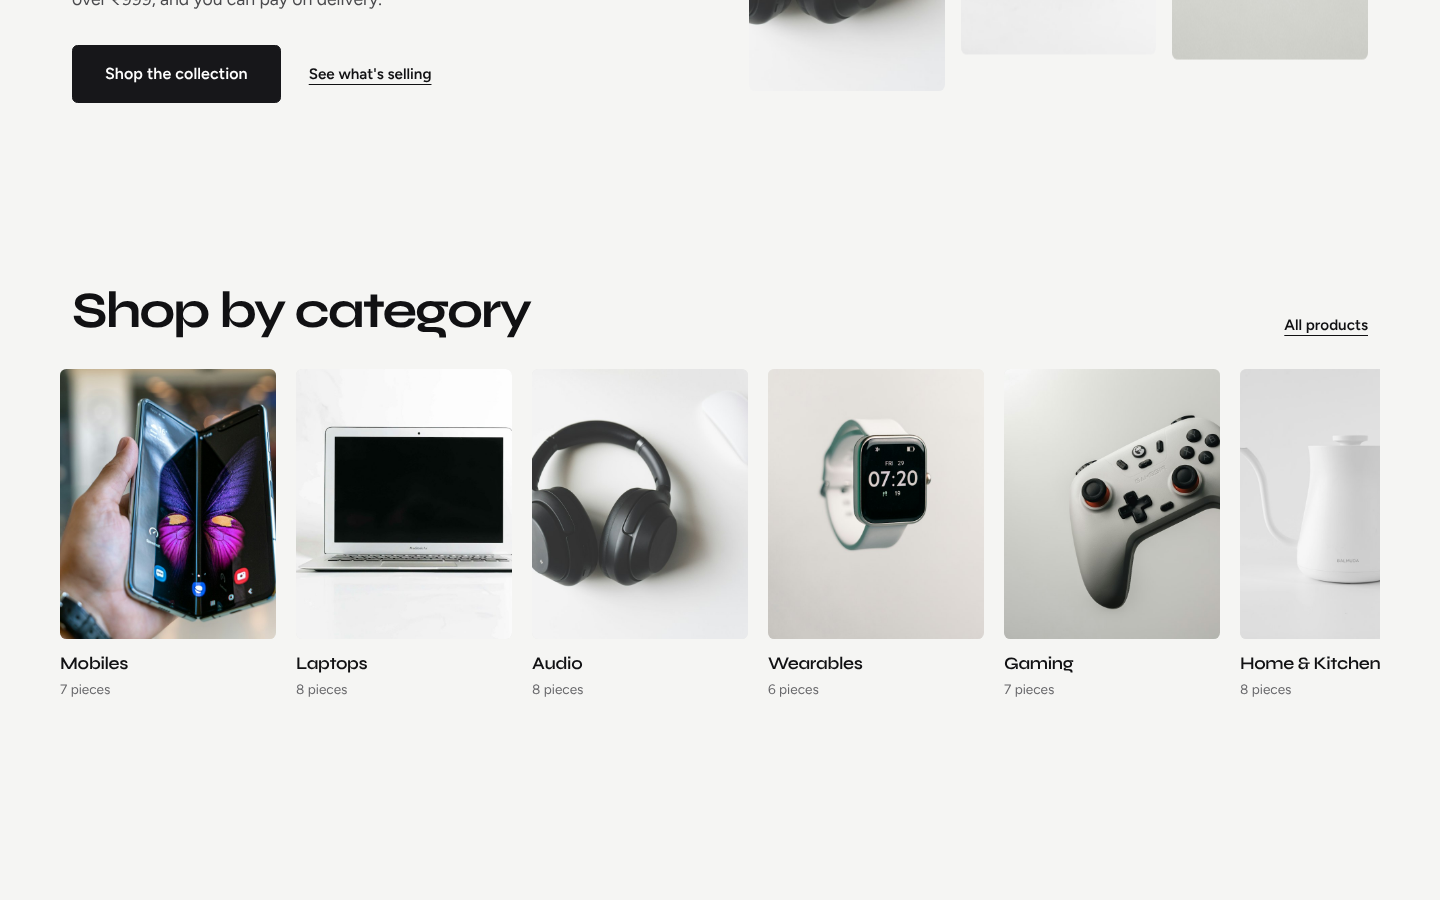
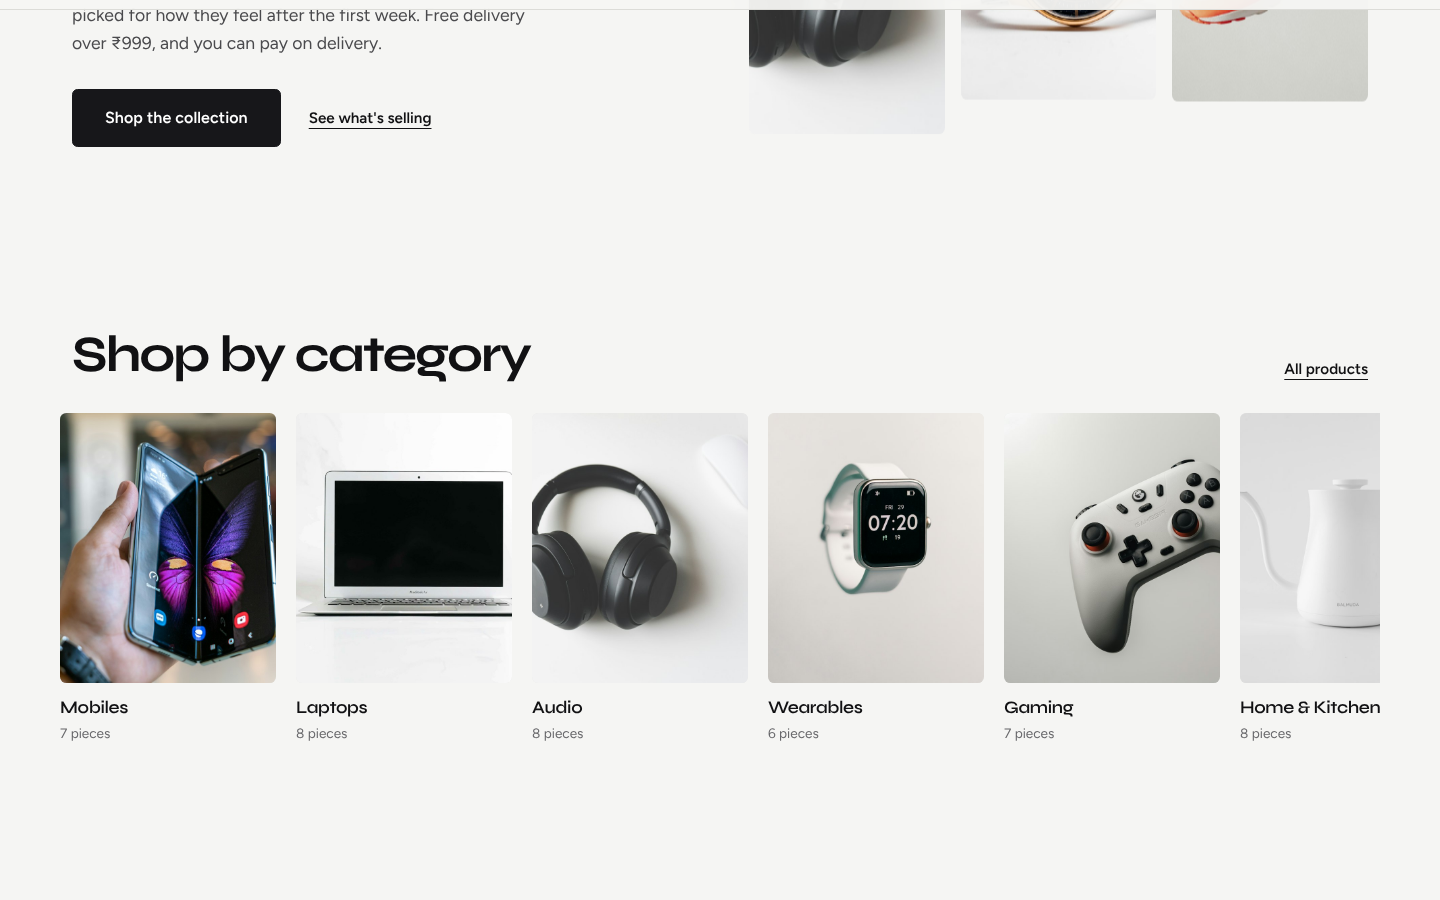
Update README

diff --git a/README.md b/README.md
@@ -1,185 +1,105 @@
-# ShopNest – Full-Stack MEAN E-Commerce Platform
+# ShopNest
 
-ShopNest is an online store built with the **MEAN stack**: **MongoDB, Express.js, Angular and Node.js**.
-Customers can search and filter products, add them to a cart and check out with **Razorpay (test mode)** or **Cash on Delivery**.
-Admins get a dashboard to manage products, stock, orders and coupons.
+A full-stack online store built with the **MEAN stack** (MongoDB, Express, Angular, Node.js).
+Shoppers can browse 62 products, search and filter, add to a bag, apply coupons and pay with **Razorpay (test mode)** or **Cash on Delivery**. An admin dashboard manages products, orders and coupons.
 
-Product photos are **AI-generated with Hugging Face** (FLUX.1-schnell) and stored in `client/public/images/products/`. Any product without a photo falls back to a **Bootstrap Icon** on a coloured tile.
+<img src="docs/screenshots/home.png" alt="Home page" width="100%">
 
 ## Screenshots
 
-| Home | Shop |
+| | |
 |---|---|
-| ![Home](docs/screenshots/home.png) | ![Shop](docs/screenshots/shop.png) |
-| **Product** | **Admin dashboard** |
-| ![Product](docs/screenshots/product.png) | ![Admin](docs/screenshots/admin.png) |
+| **Categories**<br><img src="docs/screenshots/categories.png" alt="Category row"> | **Shop**: search, filters, sorting<br><img src="docs/screenshots/shop.png" alt="Shop page"> |
+| **Product page**<br><img src="docs/screenshots/product.png" alt="Product page"> | **Bag**<br><img src="docs/screenshots/cart.png" alt="Bag page"> |
+| **Login** (email or Google)<br><img src="docs/screenshots/login.png" alt="Login page"> | **Admin dashboard**<br><img src="docs/screenshots/admin.png" alt="Admin dashboard"> |
+| **Admin: products**<br><img src="docs/screenshots/admin-products.png" alt="Admin products"> | **Admin: coupons**<br><img src="docs/screenshots/admin-coupons.png" alt="Admin coupons"> |
 
-<p align="center"><img src="docs/screenshots/mobile.png" alt="Mobile home" width="260"></p>
+**Mobile**
+
+<p><img src="docs/screenshots/mobile.png" alt="Mobile home" width="240"> &nbsp; <img src="docs/screenshots/mobile-shop.png" alt="Mobile shop" width="240"></p>
 
 ## Features
 
-**Customers**
-- Catalogue of **62 products across 9 categories**, with **live search suggestions**, **category filter**, **price range**, **in-stock filter**, **sorting** and **server-side pagination**. Filters live in the URL, so a filtered page can be shared.
-- Product page with a **photo gallery and full-screen viewer**, discount, stock status, highlights, **customer reviews and ratings**, related products and a **pincode delivery estimate**.
-- **Wishlist**, plus **recently viewed** and **just added** sections on the home page.
-- Cart saved in the browser, with stock-based quantity limits and a free-delivery progress message.
-- **Coupon codes** (percent or flat, minimum order, usage limits, one per customer) re-checked on the server at checkout.
-- Checkout with address validation (10-digit mobile, 6-digit PIN, Indian states) and **Razorpay (test mode)** or **Cash on Delivery**.
-- My Orders with a delivery tracker and cancel-before-shipping (stock and coupon are released).
-- **Sign in with Google**, email and password login, and **forgot / reset password**.
-- Info pages: About, Contact, Shipping & returns, Privacy, Terms, and a custom 404.
+**Shoppers**
+- Search with live suggestions, category / price / stock filters, sorting and pagination
+- Product page with photo gallery, reviews and ratings, and a pincode delivery check
+- Wishlist, recently viewed products, bag saved in the browser
+- Coupon codes, checkout with address validation, Razorpay or Cash on Delivery
+- My Orders with tracking and cancel-before-shipping
+- Sign in with email or Google, forgot / reset password
 
 **Admin**
-- Dashboard: revenue, orders, customers, low-stock list with quick stock update, orders by status, revenue by category.
-- Products: search, add, edit, delete. Orders: move through `placed → shipped → delivered` or cancel.
-- **Coupons**: create, edit, pause and delete discount codes.
+- Dashboard with revenue, orders, customers and low-stock list
+- Add, edit and delete products; move orders through placed, shipped and delivered
+- Create and pause coupons
 
-**Design and motion**
-- "Atelier Mono" design system: warm off-white canvas, charcoal ink, a single lilac highlight, Syne for headings and Figtree for text. Sticky header, photo-led product cards and a clean row of category tiles. Fully responsive.
-- Animations built with the [`motion`](https://motion.dev) library (scroll reveals, staggered grids, hero intro, parallax photos) plus View Transitions between pages. All of it respects `prefers-reduced-motion`.
+**Built with**
+Angular 22 (standalone components, signals), Bootstrap 5, Motion animations, Node.js, Express 5, MongoDB with Mongoose, JWT authentication, Razorpay, Google sign-in.
 
-**Security and reliability**
-- **JWT authentication**, bcrypt password hashes, HTTP interceptor, auto logout on expiry. Google ID tokens are verified on the server.
-- **Role-based access** with Angular route guards and a second check on every admin API route.
-- Prices are always read from the database, never trusted from the browser.
-- Stock is reserved with an atomic MongoDB update so two buyers cannot buy the last unit; it rolls back on failure.
-- Razorpay payments verified with an HMAC-SHA256 signature check.
-- Password reset tokens are random, stored hashed, single-use and expire in 30 minutes.
-- Input validation (express-validator), security headers (Helmet), central error handling.
+## How to run
 
-## Tech stack
-
-| Layer | Tools |
-|---|---|
-| Frontend | Angular 22 (standalone components, signals, reactive forms, lazy-loaded routes), TypeScript, RxJS, Bootstrap 5, Bootstrap Icons, Motion |
-| Backend | Node.js, Express 5, Mongoose, JWT, bcryptjs, express-validator, Helmet, Razorpay SDK, google-auth-library |
-| Database | MongoDB (local, Atlas, or an automatic in-memory database for quick demos) |
-
-## Project structure
-
-```
-ShopNest/
-├── client/                 Angular app
-│   ├── public/images/products/   product photos (generated by npm run images)
-│   └── src/app/
-│       ├── core/           models, services (auth, cart, shop, razorpay, toast), guards, interceptor
-│       ├── shared/         product card, pagination, toasts, ₹ currency pipe
-│       ├── layout/         navbar, footer
-│       ├── pages/          home, shop, product, cart, checkout, orders, auth, info pages, 404
-│       └── admin/          dashboard, products, product form, orders, coupons
-├── server/                 Express API
-│   └── src/
-│       ├── config/         environment and MongoDB connection
-│       ├── models/         User, Product, Order, Review, Coupon
-│       ├── middleware/     JWT auth, admin check, validation, errors
-│       ├── routes/         auth, products, orders, reviews, wishlist, coupons, admin
-│       └── seed/           62 demo products + demo accounts
-│   └── scripts/            generate-images.js (Hugging Face text-to-image)
-└── package.json            scripts to run both together
-```
-
-## Run it on your computer
-
-**You need:** Node.js **22.22.3 or newer** (or 24 LTS). Check with `node -v`.
+You need **Node.js 22.22.3 or newer** (check with `node -v`). MongoDB is optional.
 
 ```bash
-# 1. Install everything (root, server and client)
+# 1. Install everything
 npm run install-all
 
-# 2. Create the server settings file
+# 2. Create the settings file
 #    Windows:      copy server\.env.example server\.env
 #    macOS/Linux:  cp server/.env.example server/.env
 
-# 3. (If the fonts or animations are missing) install the client packages
-#    cd client && npm install && cd ..
-
-# 4. Start the API and the Angular app together
+# 3. Start the API and the website together
 npm run dev
 ```
 
 Open **http://localhost:4200**.
 
-- If `MONGO_URI` in `server/.env` is empty, the API starts a temporary **in-memory MongoDB** and fills it with demo data. The first run downloads MongoDB, so it takes a minute. The data resets every time the server restarts.
-- To keep your data, install [MongoDB Community Server](https://www.mongodb.com/try/download/community) and set
-  `MONGO_URI=mongodb://127.0.0.1:27017/shopnest`, or use a free MongoDB Atlas cluster.
-  An empty database is filled with demo products automatically. Run `npm run seed` to reset it.
+If `MONGO_URI` in `server/.env` is empty, a temporary in-memory database is used and it resets on every restart.
+To keep your data, install MongoDB and set `MONGO_URI=mongodb://127.0.0.1:27017/shopnest`, then run `npm run seed` once to load the demo products.
 
-### Demo accounts (local test data)
+**Demo logins**
 
 | Role | Email | Password |
 |---|---|---|
 | Admin | admin@shopnest.dev | Admin@123 |
 | Customer | demo@shopnest.dev | Demo@123 |
 
-### Sign in with Google (optional)
+## Optional setup
 
-1. In [Google Cloud Console](https://console.cloud.google.com) create a project and set up the **Google Auth Platform** consent screen (External). While it is in Testing mode, add your own Gmail under **Audience → Test users**.
-2. Under **Clients → Create client** choose **Web application** and add `http://localhost:4200` under **Authorised JavaScript origins** (and your live site URL when deployed). Leave redirect URIs empty.
-3. Put the Client ID in `server/.env` as `GOOGLE_CLIENT_ID=...` and **restart the server**. No client secret is needed, so never store it in the project.
+All of these go in `server/.env`. Restart `npm run dev` after changing it.
 
-Without it the login page shows a short "not switched on" note. `Error 401: invalid_client / no registered origin` means the origin in step 2 is missing or does not match the address in your browser.
+**Google sign-in**
+1. In [Google Cloud Console](https://console.cloud.google.com), open **Google Auth Platform**, set up the consent screen (External) and add your Gmail under **Audience → Test users**.
+2. Under **Clients → Create client** choose **Web application** and add `http://localhost:4200` under **Authorized JavaScript origins**.
+3. Set `GOOGLE_CLIENT_ID=` to the Client ID. No client secret is needed.
 
-Without it the login page shows a short "not switched on" note.
+**Razorpay (test mode)**
+1. Turn on Test Mode in the Razorpay dashboard and create API keys.
+2. Set `RAZORPAY_KEY_ID` and `RAZORPAY_KEY_SECRET`. Without them, only Cash on Delivery is offered.
 
-### Forgot password
+**Product photos**
+1. Create a free token at [huggingface.co/settings/tokens](https://huggingface.co/settings/tokens) (Fine-grained, with "Make calls to Inference Providers").
+2. Set `HF_TOKEN=` in `.env`, then run `npm run images`. Photos are saved to `client/public/images/products/`, and products without a photo show an icon.
+3. Restart the server so the photos are linked.
 
-There is no email service connected yet. In development the reset link is printed in the server console and shown on the page. In production, connect an email provider (for example Nodemailer with SMTP, or Resend) inside the `/api/auth/forgot` route.
+**Forgot password**
+There is no email service yet. In development the reset link is printed in the server console and shown on the page.
 
-### Generate product photos with Hugging Face
-
-1. Create a free account at [huggingface.co](https://huggingface.co), then make a token at **Settings → Access Tokens**
-   (type **Fine-grained**, tick **Make calls to Inference Providers**).
-2. Add it to `server/.env`:  `HF_TOKEN=hf_xxxxxxxx`
-3. Run:
-   ```bash
-   npm run images
-   ```
-   One photo per product is saved to `client/public/images/products/<product-slug>.jpg`. Existing photos are skipped,
-   so you can run it again to finish if you run out of free credits. Use `npm run images -- --force` to redo all,
-   or `npm run images -- --only=pulse` for some.
-4. Restart `npm run dev`. The server links each photo to its product automatically.
-
-Admins can also set a photo path or https URL for any product in **Admin → Products → Edit**.
-
-### Turn on Razorpay (optional, test mode)
-
-1. Create a Razorpay account, switch the dashboard to **Test Mode**, and generate API keys.
-2. Put them in `server/.env` as `RAZORPAY_KEY_ID` and `RAZORPAY_KEY_SECRET`, then restart the server.
-3. At checkout choose **Pay online** and use Razorpay's test UPI ID or test cards. No real money is charged.
-
-Without keys, the store offers Cash on Delivery only.
-
-### Production build (one port)
+## Production build
 
 ```bash
-npm run build     # builds Angular into client/dist
-npm start         # Express serves the API and the built app on http://localhost:5000
+npm run build   # builds the Angular app
+npm start       # serves the API and the app on http://localhost:5000
 ```
 
-## Keep your secrets out of Git
+## Project structure
 
-`server/.env` holds your JWT secret and API keys, and is already listed in `.gitignore`. Commit only `server/.env.example`, which has empty values. Before the first push, check with `git status` that `.env` is not listed.
-
-## Deploying
-
-The Express server also serves the built Angular app (`npm run build`, then `npm start`), so the whole project can run as one web service. Use a MongoDB Atlas connection string for `MONGO_URI`, set a long random `JWT_SECRET`, set `NODE_ENV=production`, and add your live URL to the Google OAuth origins.
-
-## API overview
-
-| Method | Endpoint | Access |
-|---|---|---|
-| POST | `/api/auth/register`, `/api/auth/login`, `/api/auth/google` | Public |
-| POST | `/api/auth/forgot`, `/api/auth/reset` | Public |
-| GET | `/api/auth/config` | Public |
-| GET | `/api/auth/me` | Logged in |
-| GET | `/api/products?search=&category=&minPrice=&maxPrice=&inStock=&sort=&page=&limit=` | Public |
-| GET | `/api/products/categories`, `/api/products/:slug` | Public |
-| POST / PUT / DELETE | `/api/products`, `/api/products/:id` | Admin |
-| GET | `/api/orders/payment-config` | Public |
-| POST | `/api/orders`, `/api/orders/:id/verify`, `/api/orders/:id/cancel` | Logged in |
-| GET | `/api/orders/mine`, `/api/orders/:id` | Logged in (own orders; admin sees all) |
-| GET | `/api/admin/stats`, `/api/admin/orders` | Admin |
-| PATCH | `/api/admin/orders/:id/status`, `/api/admin/products/:id/stock` | Admin |
+```
+ShopNest/
+├── client/    Angular app (pages, admin, services, shared components)
+├── server/    Express API (routes, models, middleware, seed data)
+└── docs/      screenshots
+```
 
 ## Author
 
